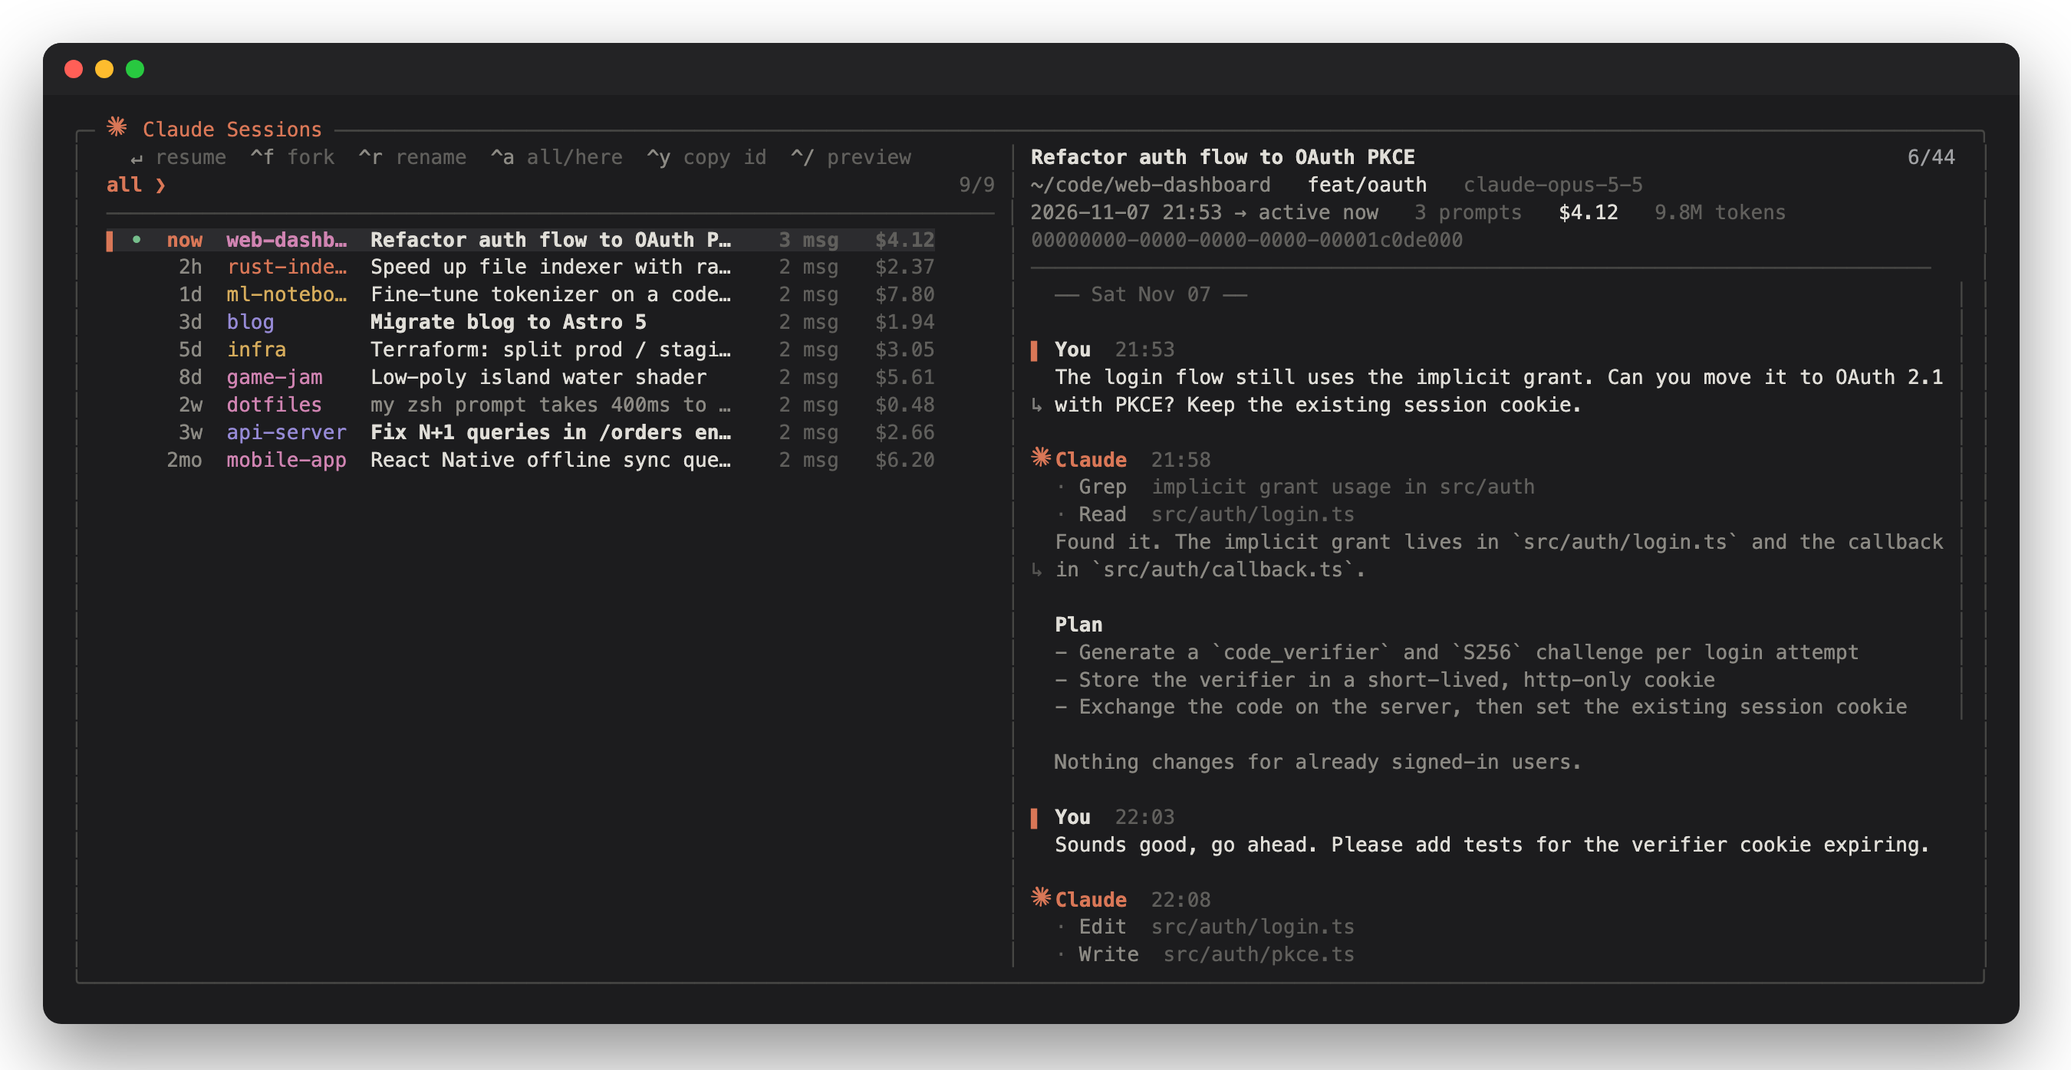
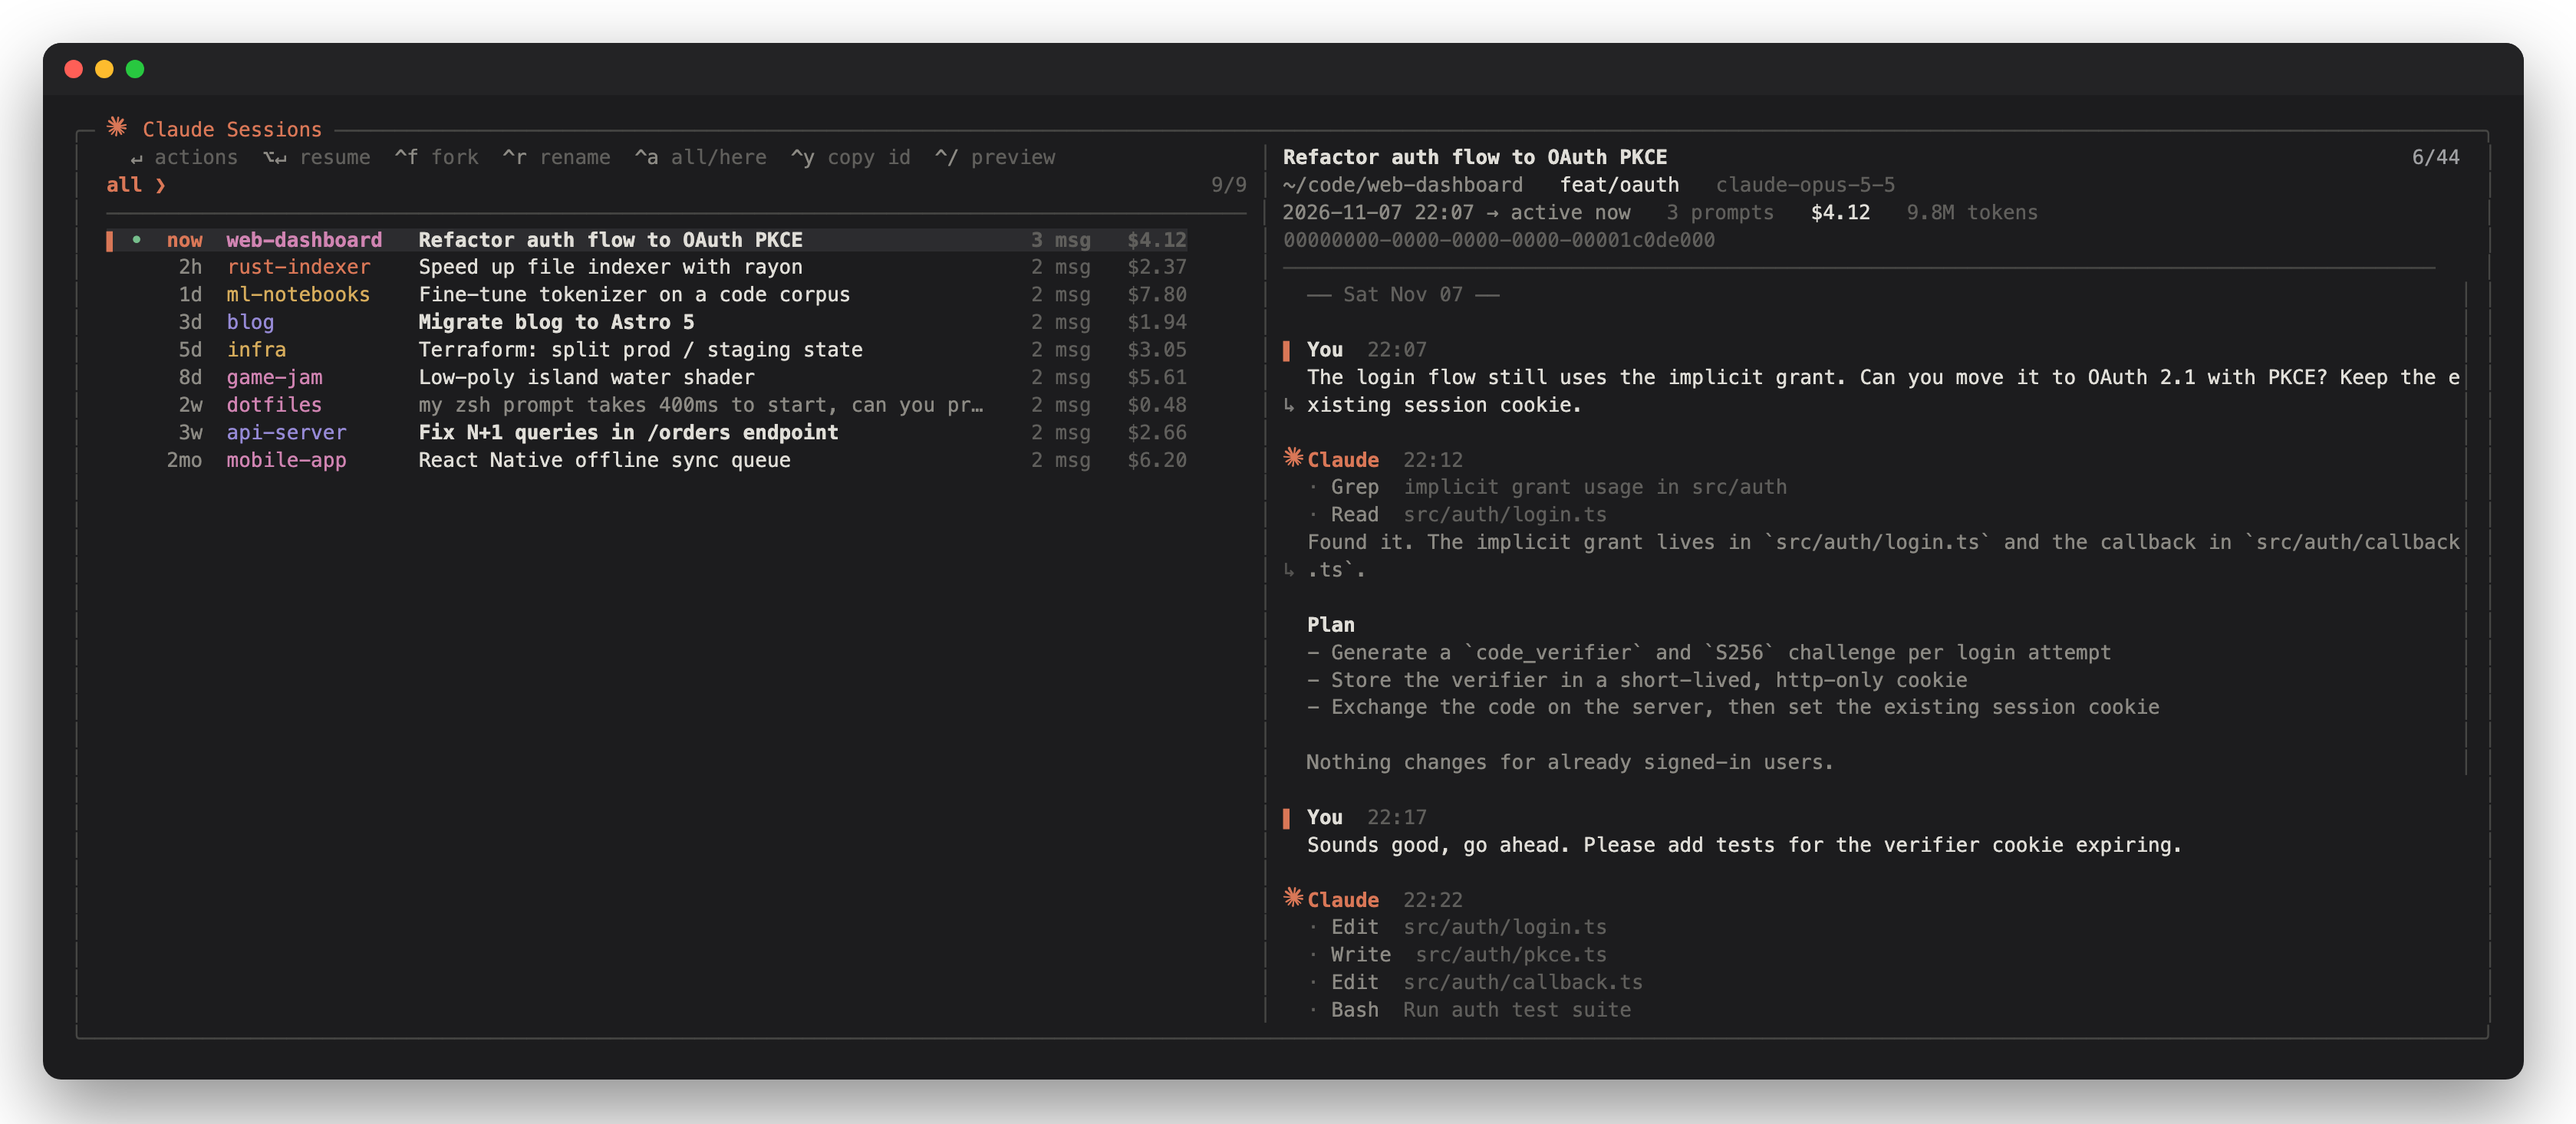
Refresh screenshots and document the action menu
New list screenshot with the updated key hints, plus a screenshot
of the action menu in the README.

Changed region(s): [[0.0, 0.0308, 0.9956, 0.9549], [0.0311, 0.9549, 0.9644, 0.9857]]

diff --git a/README.md b/README.md
@@ -64,6 +64,16 @@ Requirements: Python 3.8+ and a recent fzf (developed with fzf 0.74). Built and 
 
 The preview sits beside the list in wide terminals and moves below it in narrow ones.
 
+### Action menu
+
+`enter` opens a menu for the selected session:
+
+![action menu](docs/actions.png)
+
+- **resume** and **fork** switch this terminal to Claude.
+- **new pane**, **new tab**, **copy id**, **copy command** and **rename** do their job and bring you back to the list, with your search intact.
+- **new pane** and **new tab** only appear inside [Rex](https://rex.superlogical.com). For a session that is still running elsewhere they fork it rather than resuming it twice.
+
 ### Environment
 
 | variable | default | purpose |
